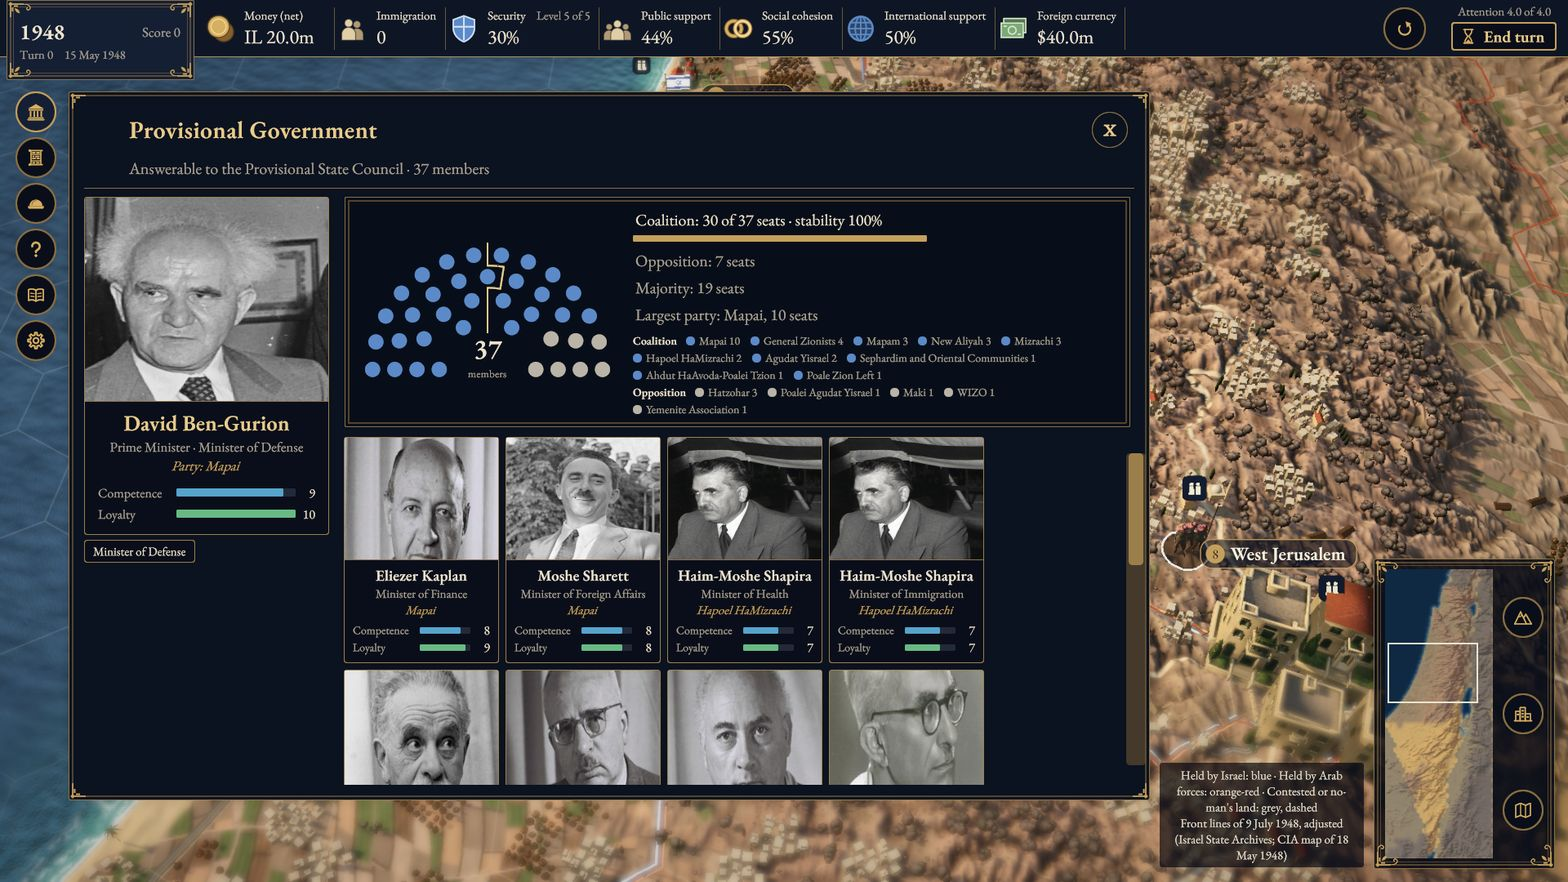
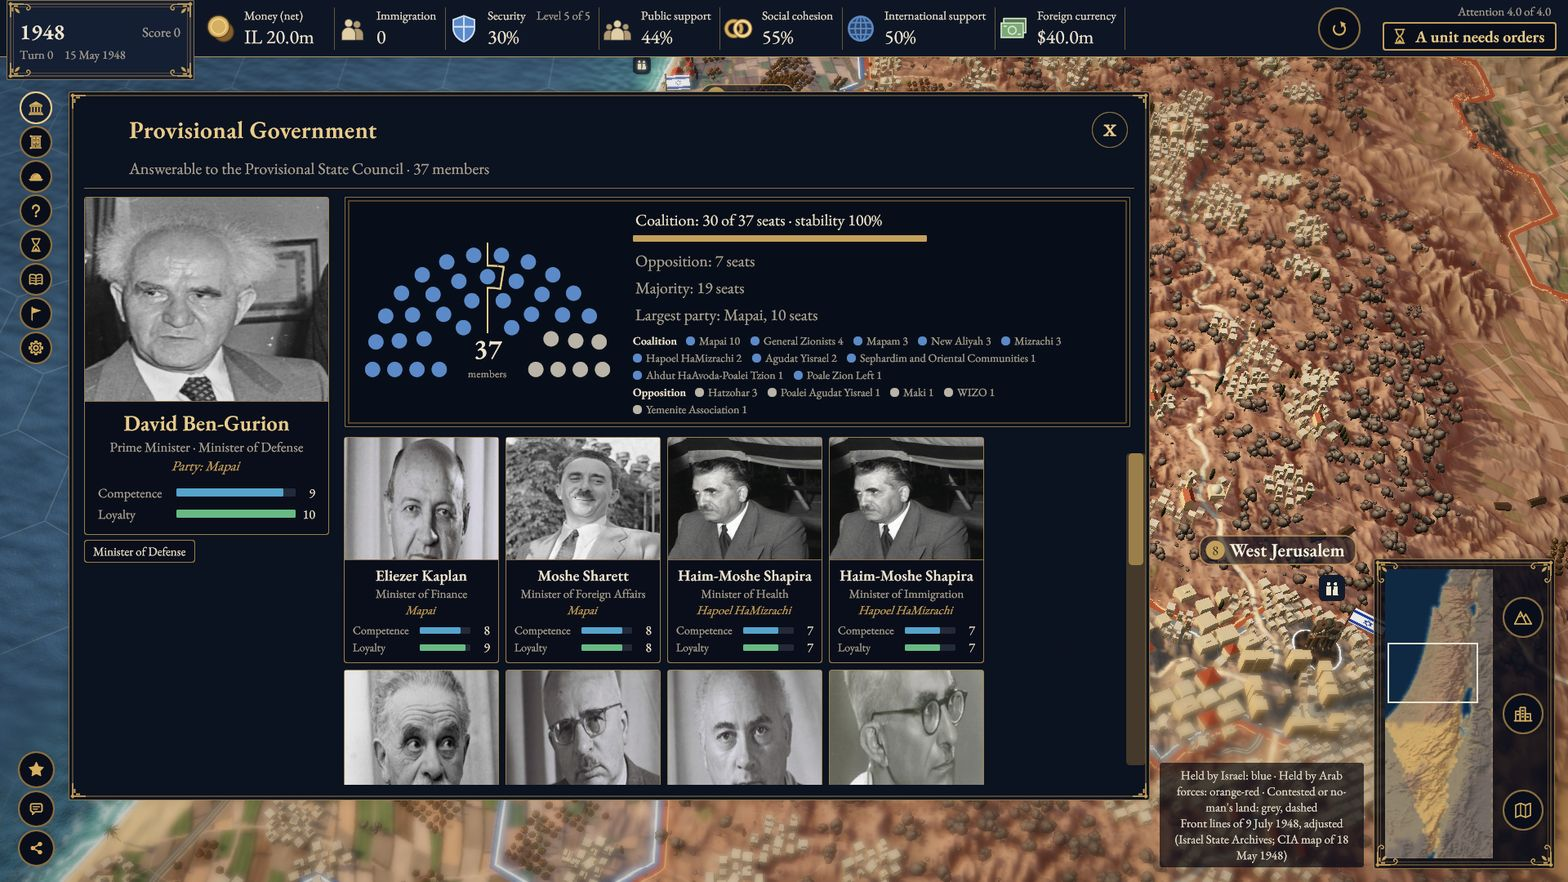
README: screenshots of main 1dca7e0, and the text matches v0.3.1 (#1868)
## What this changes

The owner asked to make sure the README on main and its screenshots are
up to date. This retakes the README screenshots from a build of main at
`1dca7e0` (27 Oct), the same way #1200 took them, and fixes the
sentences in `README.md` and `README.he.md` that went stale after
v0.2.0. Only stale claims change; there are no new sections. Refs #374.

## Text changes and the evidence for each

1. **Latest release** (EN Play section, HE "מה המצב היום?"): "v0.2.1, a
pre-release" becomes "v0.3.1". `gh release view v0.3.1` gives
`isPrerelease: false` (published 2026-10-26, marked Latest), so
"pre-release" is dropped too.
2. **Settlement control** (EN GDD paragraph and its HE twin): "choosing
what happens to it is not playable yet, so a capture counts as Raid and
withdraw at the end of the game" becomes "a dialog then offers Raid and
withdraw or Occupy; when an occupation ends, you choose Annex or
Withdraw". Evidence: the capture dialog merged in #1317 (CHANGELOG
0.2.1); the end-of-occupation choice is in CHANGELOG 0.3.0 ("The capture
dialog also answers the end of an occupation");
`CaptureDialogPresenter.cs` lists `CaptureOptions` / `EndOptions` and
hides Deport while `content/rules.yaml` has `deport_in_play: false`; all
six rows of `content/settlement_targets.yaml` are `sensitivity-reviewed`
(CHANGELOG 0.3.0, #799), and
`unity/Assets/UI/settlement-control-strings-review.yaml` is `status:
sensitivity-reviewed` (R-GATE-002). "Only partly in" stays: #800 to #804
[…]

diff --git a/README.he.md b/README.he.md
@@ -29,7 +29,7 @@ https://github.com/user-attachments/assets/56571db8-446b-444b-8db9-fce57dac53a7
 <img src="docs/images/build-m3-map.jpg" width="820" alt="הגרסה הנוכחית: כרטיס האירוע &quot;צבא אחד&quot; עם צילום ארכיון, מעל מפת החוף, עם הסרגל העליון והמפה הקטנה.">
 <br>
 <img src="docs/images/build-m3-start.jpg" width="405" alt="הגרסה הנוכחית: מסך הפתיחה עם שתי שורות ממגילת העצמאות, על רקע ציור שנוצר בבינה מלאכותית.">
-<img src="docs/images/build-m3-city.jpg" width="405" alt="הגרסה הנוכחית: מבט קרוב על תל אביב, יפו, לוד, רמלה ורחובות, ולוח העיר של תל אביב עם הדיור, התעסוקה והאימון.">
+<img src="docs/images/build-m3-city.jpg" width="405" alt="הגרסה הנוכחית: מבט קרוב על תל אביב, יפו, לוד, פתח תקווה וראשון לציון, ולוח העיר של תל אביב עם הדיור, התעסוקה והאימון.">
 <br>
 <img src="docs/images/build-m3-cabinet.jpg" width="405" alt="הגרסה הנוכחית: מסך הקבינט.">
 <img src="docs/images/build-m3-why.jpg" width="405" alt="הגרסה הנוכחית: לוח 'למה זה קרה?' אחרי התור הראשון.">
@@ -38,7 +38,7 @@ https://github.com/user-attachments/assets/56571db8-446b-444b-8db9-fce57dac53a7
 
 <div dir="rtl">
 
-<p align="center"><em>צילומי מסך אמיתיים, main בקומיט <span dir="ltr">8dae186</span>, 2026-10-20; מסך הפתיחה, שלא השתנה מאז, main בקומיט <span dir="ltr">6c54c95</span>, 2026-10-18. הציור במסך הפתיחה נוצר בבינה מלאכותית.</em></p>
+<p align="center"><em>צילומי מסך אמיתיים, main בקומיט <span dir="ltr">1dca7e0</span>, 2026-10-27. הציור במסך הפתיחה נוצר בבינה מלאכותית.</em></p>
 
 </div>
 
@@ -57,9 +57,9 @@ https://github.com/user-attachments/assets/56571db8-446b-444b-8db9-fce57dac53a7
 
 ## מה המצב היום?
 
-***אב־טיפוס מוקדם: אבן הדרך M3 הושלמה, והשנים 1948 עד 1951 ניתנות למשחק כשבונים מקוד המקור.*** אפשר לשחק בדפדפן ב־[itch.io](https://eyalgolan.itch.io/statecraft-israel). בכל [הפצה](https://github.com/eyalgolan/statecraft-israel/releases) יש קובץ zip של גרסת הדפדפן (האחרונה היא [v0.2.1](https://github.com/eyalgolan/statecraft-israel/releases/tag/v0.2.1), גרסת טרום־הפצה); איך מריצים אותו כתוב ב־[<span dir="ltr">docs/m3-release.md</span>](docs/m3-release.md) (באנגלית). המשחק זמין באנגלית ובעברית, ובהגדרות אפשר לעבור בין השפות; כרטיסי האירועים בעברית עוד ממתינים לבדיקה של דובר עברית. הוראות ההרצה המקומית (באנגלית): [<span dir="ltr">BUILDING.md</span>](BUILDING.md). הבנייה דורשת Unity בגרסה 6000.3.25f1.
+***אב־טיפוס מוקדם: אבן הדרך M3 הושלמה, והשנים 1948 עד 1951 ניתנות למשחק כשבונים מקוד המקור.*** אפשר לשחק בדפדפן ב־[itch.io](https://eyalgolan.itch.io/statecraft-israel). בכל [הפצה](https://github.com/eyalgolan/statecraft-israel/releases) יש קובץ zip של גרסת הדפדפן (האחרונה היא [v0.3.1](https://github.com/eyalgolan/statecraft-israel/releases/tag/v0.3.1)); איך מריצים אותו כתוב ב־[<span dir="ltr">docs/m3-release.md</span>](docs/m3-release.md) (באנגלית). המשחק זמין באנגלית ובעברית, ובהגדרות אפשר לעבור בין השפות; כרטיסי האירועים בעברית עוד ממתינים לבדיקה של דובר עברית. הוראות ההרצה המקומית (באנגלית): [<span dir="ltr">BUILDING.md</span>](BUILDING.md). הבנייה דורשת Unity בגרסה 6000.3.25f1.
 
-מסמך התכנון המחייב הוא עכשיו [<span dir="ltr">docs/GDD.md</span>](docs/GDD.md) (גרסה 0.2, 17 באוקטובר 2026, באנגלית): תורות של חודש, שבהם בונים ומגינים על ישראל בשנים 1948 עד 1951 בעזרת יחידות, ערים ובנייה, ובוחרים שרים. המשחק שאפשר לשחק היום הוא המשחק שמתואר למעלה. התורות החודשיים, תשומת הלב, הערים, האימון, הבנייה בידי החלוצים והפקודות ליחידות, כולל התקפה, כבר בפנים. השליטה ביישובים נכנסה רק בחלקה: היחידות שלכם יכולות לכבוש עיר יעד, אבל הבחירה מה יקרה בה אחר כך עוד לא ניתנת למשחק, ולכן בסוף המשחק כיבוש נחשב לפשיטה ונסיגה (Raid and withdraw). [תוכנית הבנייה](docs/superpowers/specs/2026-10-12-gdd-v0.1-impact-and-plan.md) מכניסה את השאר בשלבים.
+מסמך התכנון המחייב הוא עכשיו [<span dir="ltr">docs/GDD.md</span>](docs/GDD.md) (גרסה 0.2, 17 באוקטובר 2026, באנגלית): תורות של חודש, שבהם בונים ומגינים על ישראל בשנים 1948 עד 1951 בעזרת יחידות, ערים ובנייה, ובוחרים שרים. המשחק שאפשר לשחק היום הוא המשחק שמתואר למעלה. התורות החודשיים, תשומת הלב, הערים, האימון, הבנייה בידי החלוצים והפקודות ליחידות, כולל התקפה, כבר בפנים. השליטה ביישובים נכנסה רק בחלקה: היחידות שלכם יכולות לכבוש עיר יעד, ואז מופיע חלון שמציע פשיטה ונסיגה או שחרור; בסוף תקופת השחרור בוחרים בין סיפוח לנסיגה. [תוכנית הבנייה](docs/superpowers/specs/2026-10-12-gdd-v0.1-impact-and-plan.md) מכניסה את השאר בשלבים.
 
 ## מפת דרכים
 
@@ -89,8 +89,8 @@ flowchart RL
 | 2 | תורות חודשיים במשחק האמיתי, וחמשת המשאבים | בתהליך: הכול מלבד הסרגל העליון של חמשת המשאבים | [#382](https://github.com/eyalgolan/statecraft-israel/issues/382) |
 | 3 | כל הערים, עם דיור, תעסוקה וקליטת עלייה | הושלם: 8 מתוך 8 PRs מוזגו | [#383](https://github.com/eyalgolan/statecraft-israel/issues/383) |
 | 4 | חלוצים, אתרי בנייה, כבישים ומסילות ברזל | בתהליך: 6 מתוך 8 PRs מוזגו | [#384](https://github.com/eyalgolan/statecraft-israel/issues/384) |
-| 5 | יחידות צבאיות, תנועה וקרב | בתהליך: 8 מתוך 18 PRs מוזגו | [#385](https://github.com/eyalgolan/statecraft-israel/issues/385) |
-| 6 | שליטה ביישובים, לפי [מדיניות התוכן](docs/CONTENT_POLICY.md) | בתהליך: 5 מתוך 12 PRs מוזגו | [#386](https://github.com/eyalgolan/statecraft-israel/issues/386) |
+| 5 | יחידות צבאיות, תנועה וקרב | בתהליך: 13 מתוך 18 PRs מוזגו | [#385](https://github.com/eyalgolan/statecraft-israel/issues/385) |
+| 6 | שליטה ביישובים, לפי [מדיניות התוכן](docs/CONTENT_POLICY.md) | בתהליך: 7 מתוך 12 PRs מוזגו | [#386](https://github.com/eyalgolan/statecraft-israel/issues/386) |
 | 7 | שרים, אירועים והמשחק המלא בן 44 תורות | בתהליך: 5 מתוך 13 PRs מוזגו | [#387](https://github.com/eyalgolan/statecraft-israel/issues/387) |
 
 ### מסלולים נוספים

diff --git a/README.md b/README.md
@@ -40,7 +40,7 @@ You sit in the prime minister's chair from the founding of the state. Each turn 
 
 A deterministic C# simulation runs underneath. The same choices always give the same result, and a saved game is the seed plus the list of commands. Unity draws a real terrain map of the country built from elevation and climate data.
 
-The game design of record is now [docs/GDD.md](docs/GDD.md) (v0.2, 17 October 2026): monthly turns in which you build and defend Israel from 1948 to 1951 with units, cities and construction, and choose your ministers. The list above is the game you can play today. The monthly turns, Attention, the cities, training, the pioneers' building and the unit orders, attacks included, are in. Settlement control is only partly in: your units can capture a target town, but choosing what happens to it is not playable yet, so a capture counts as Raid and withdraw at the end of the game. The [build plan](docs/superpowers/specs/2026-10-12-gdd-v0.1-impact-and-plan.md) brings the rest in phases.
+The game design of record is now [docs/GDD.md](docs/GDD.md) (v0.2, 17 October 2026): monthly turns in which you build and defend Israel from 1948 to 1951 with units, cities and construction, and choose your ministers. The list above is the game you can play today. The monthly turns, Attention, the cities, training, the pioneers' building and the unit orders, attacks included, are in. Settlement control is only partly in: your units can capture a target town, and a dialog then offers Raid and withdraw or Occupy; when an occupation ends, you choose Annex or Withdraw. The [build plan](docs/superpowers/specs/2026-10-12-gdd-v0.1-impact-and-plan.md) brings the rest in phases.
 
 ## What it looks like today
 
@@ -53,11 +53,11 @@ The game design of record is now [docs/GDD.md](docs/GDD.md) (v0.2, 17 October 20
 </p>
 <p align="center">
   <img src="docs/images/build-m3-start.jpg" alt="Current build: the start screen, two lines of the Declaration of Independence in Hebrew and English and the New game button, over an AI-generated painting of the 14 May 1948 ceremony" width="405">
-  <img src="docs/images/build-m3-city.jpg" alt="Current build: a closer look at Tel Aviv, Jaffa, Lydda, Ramle and Rehovot, with groves, railways, roads and the front lines, and Tel Aviv's city panel with its housing, jobs and training" width="405">
+  <img src="docs/images/build-m3-city.jpg" alt="Current build: a closer look at Tel Aviv, Jaffa, Lydda, Petah Tikva and Rishon LeZion, with groves, railways, roads and the front lines, and Tel Aviv's city panel with its housing, jobs and training" width="405">
   <br>
   <img src="docs/images/build-m3-cabinet.jpg" alt="Current build: the Cabinet screen with the Provisional State Council as a half circle of seats and the ministers' portrait cards" width="405">
   <img src="docs/images/build-m3-why.jpg" alt="Current build: the Why panel after the first turn, listing each change and its cause" width="405">
-  <br><em>Real screenshots, main at 8dae186, 2026-10-20; the start screen, unchanged since, main at 6c54c95, 2026-10-18. The start screen's painting is AI-generated.</em>
+  <br><em>Real screenshots, main at 1dca7e0, 2026-10-27. The start screen's painting is AI-generated.</em>
 </p>
 
 ## Is this any good?
@@ -76,7 +76,7 @@ It is an early, honest prototype.
 - The Budget screen.
 - The Defence screen, which shows the escalation ladder and the reserve call-up as the events set them.
 - Sourced historical events from the 1948 war through the 1951 foreign-currency crisis, most with an archival photograph.
-- The "Why?" panel, a turn report after End turn, a short How to play screen and a six-step first-turn guide.
+- The "Why?" panel, a turn report after End turn, a short How to play screen, and the advisors David Ben-Gurion, Golda Meyerson and Moshe Dayan, who walk you through the first turn.
 - A Timeline screen that sets your course beside the historical record.
 - An end screen with the outcome, the score and the date you met each objective beside the historical date.
 - Share: a screenshot of your game for X, Facebook, Instagram, WhatsApp, Telegram or LinkedIn.
@@ -85,7 +85,7 @@ It is an early, honest prototype.
 
 **What is missing:**
 - The art in the concept image above. Settlements and trees are still placeholder art.
-- Most of the [GDD](docs/GDD.md): choosing what happens to a captured town, and the war objective.
+- Most of the [GDD](docs/GDD.md): the war objective, and the rest of settlement control.
 - Diplomacy.
 - Anything after 1951.
 
@@ -117,8 +117,8 @@ flowchart LR
 | 2 | Monthly turns for the real game, and the five resources | In progress: all but the top bar for the five resources | [#382](https://github.com/eyalgolan/statecraft-israel/issues/382) |
 | 3 | Every city, with housing, jobs and immigrant absorption | Done: 8 of 8 PRs merged | [#383](https://github.com/eyalgolan/statecraft-israel/issues/383) |
 | 4 | Pioneers, building sites, roads and railways | In progress: 6 of 8 PRs merged | [#384](https://github.com/eyalgolan/statecraft-israel/issues/384) |
-| 5 | Military units, movement and combat | In progress: 8 of 18 PRs merged | [#385](https://github.com/eyalgolan/statecraft-israel/issues/385) |
-| 6 | Settlement control, under [docs/CONTENT_POLICY.md](docs/CONTENT_POLICY.md) | In progress: 5 of 12 PRs merged | [#386](https://github.com/eyalgolan/statecraft-israel/issues/386) |
+| 5 | Military units, movement and combat | In progress: 13 of 18 PRs merged | [#385](https://github.com/eyalgolan/statecraft-israel/issues/385) |
+| 6 | Settlement control, under [docs/CONTENT_POLICY.md](docs/CONTENT_POLICY.md) | In progress: 7 of 12 PRs merged | [#386](https://github.com/eyalgolan/statecraft-israel/issues/386) |
 | 7 | Ministers, events and the full 44-turn game | In progress: 5 of 13 PRs merged | [#387](https://github.com/eyalgolan/statecraft-israel/issues/387) |
 
 ### Other tracks
@@ -132,7 +132,7 @@ flowchart LR
 
 <iframe frameborder="0" src="https://itch.io/embed/5179460" width="552" height="167"><a href="https://eyalgolan.itch.io/statecraft-israel">Statecraft: Israel by eyalgolan</a></iframe>
 
-Play it in your browser on [itch.io](https://eyalgolan.itch.io/statecraft-israel). Each [release](https://github.com/eyalgolan/statecraft-israel/releases) (the latest is [v0.2.1](https://github.com/eyalgolan/statecraft-israel/releases/tag/v0.2.1), a pre-release) has the browser build as a zip; [docs/m3-release.md](docs/m3-release.md) says how to serve it. To build and run it locally:
+Play it in your browser on [itch.io](https://eyalgolan.itch.io/statecraft-israel). Each [release](https://github.com/eyalgolan/statecraft-israel/releases) (the latest is [v0.3.1](https://github.com/eyalgolan/statecraft-israel/releases/tag/v0.3.1)) has the browser build as a zip; [docs/m3-release.md](docs/m3-release.md) says how to serve it. To build and run it locally:
 
 1. Install the tools in [docs/dev-setup.md](docs/dev-setup.md): .NET 10, Unity 6000.3.25f1 with Web Build Support, and `uv`.
 2. Run `uv run tools/build_sim_for_unity.py`.
